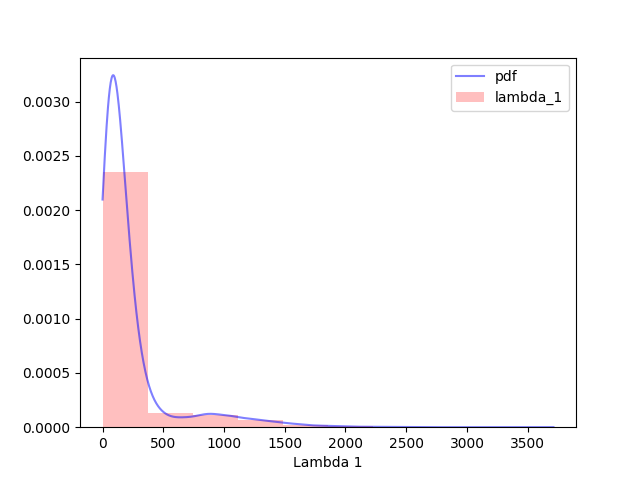
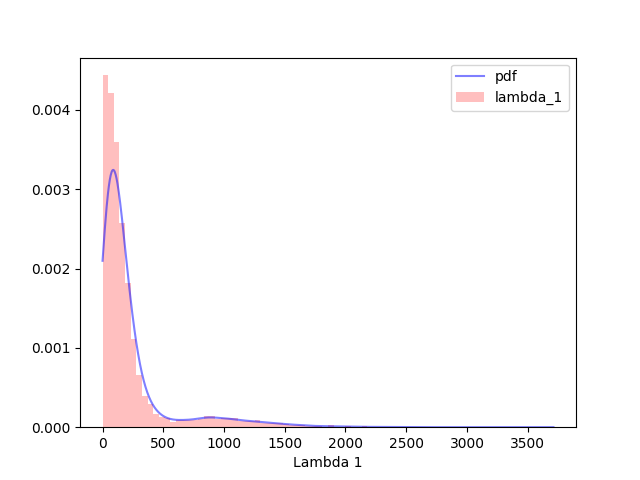
Did bin adjustment for Anarya's lambda study method as well.

diff --git a/year3/lastStretch/lambdaReflectionStudy/reflectionTests.py b/year3/lastStretch/lambdaReflectionStudy/reflectionTests.py
@@ -67,7 +67,7 @@ def method3():
     kde = scipy.stats.gaussian_kde(lambda_1, bw_method=bw, weights=None)
     pdf = kde(lambda_1_plot)
     plt.clf()
-    plt.hist(lambda_1,density=True,color='red',alpha=0.25,label="lambda_1")
+    plt.hist(lambda_1,density=True,color='red',bins=80,alpha=0.25,label="lambda_1")
     plt.plot(lambda_1_plot,pdf,color='blue',alpha=0.50,label="pdf")
     plt.legend()
     plt.xlabel("Lambda 1")
